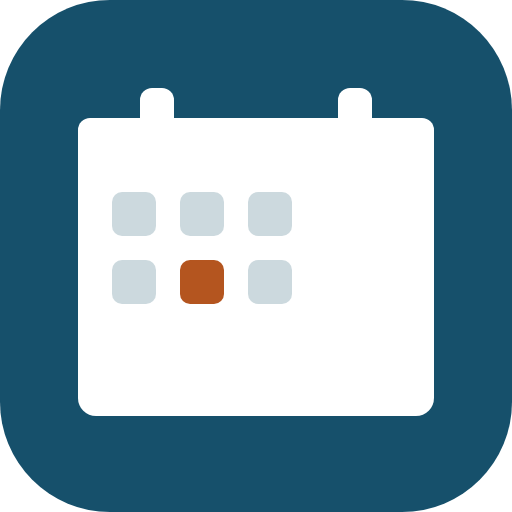
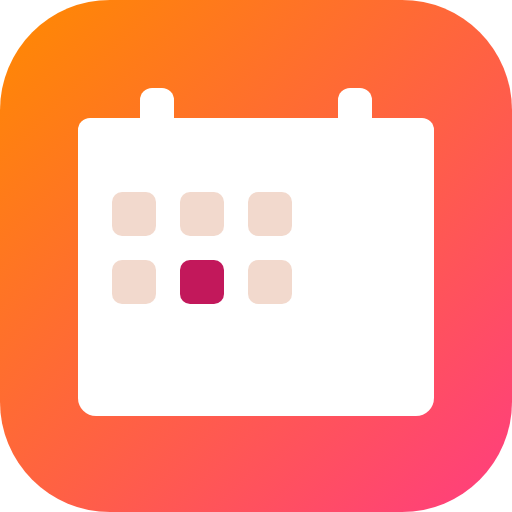
Dejar Mango como paleta predeterminada
Mango pasa a ser lo que ve cualquiera que abra la agenda, en celular y en
computadora, sin tener que elegir nada. El selector de colores sigue ahí para
quien prefiera otra.

El ícono de la aplicación instalada y el color de la barra del navegador
acompañan el cambio, y la clave de preferencia se renombró para que las pruebas
guardadas durante la elección no dejen a nadie con una paleta antigua.

Claude-Session: https://claude.ai/code/session_0159ZTYLP63b3gAeUsjyt73B

diff --git a/index.html b/index.html
@@ -4,7 +4,7 @@
 <meta charset="utf-8">
 <meta name="viewport" content="width=device-width, initial-scale=1">
 <title>Agenda de Inspecciones</title>
-<meta name="theme-color" content="#16506B">
+<meta name="theme-color" content="#C2521A">
 <meta name="apple-mobile-web-app-capable" content="yes">
 <meta name="apple-mobile-web-app-status-bar-style" content="default">
 <meta name="apple-mobile-web-app-title" content="Agenda">
@@ -1159,7 +1159,7 @@ function aplicarTema(id) {
   const t = TEMAS.some((x) => x.id === id) ? id : "sobrio";
   if (t === "sobrio") document.documentElement.removeAttribute("data-paleta");
   else document.documentElement.setAttribute("data-paleta", t);
-  try { localStorage.setItem("agenda-paleta", t); } catch (e) {}
+  try { localStorage.setItem("agenda-paleta-v2", t); } catch (e) {}
   $("#toggles-tema").innerHTML = TEMAS.map((x) =>
     '<button type="button" class="tog tema" data-tema="' + x.id + '" aria-pressed="' + (x.id === t) + '">'
     + '<span class="sw">' + x.tonos.map((c) => '<i style="background:' + c + '"></i>').join("") + "</span>"
@@ -1266,8 +1266,8 @@ document.addEventListener("keydown", (ev) => {
 
 /* ---------------------- arranque ---------------------- */
 (async function iniciar() {
-  let guardado = "sobrio";
-  try { guardado = localStorage.getItem("agenda-paleta") || "sobrio"; } catch (e) {}
+  let guardado = "mango";
+  try { guardado = localStorage.getItem("agenda-paleta-v2") || "mango"; } catch (e) {}
   aplicarTema(guardado);
   if (window.matchMedia("(max-width: 640px)").matches) S.vista = "agenda";
   sincronizarVistas();
